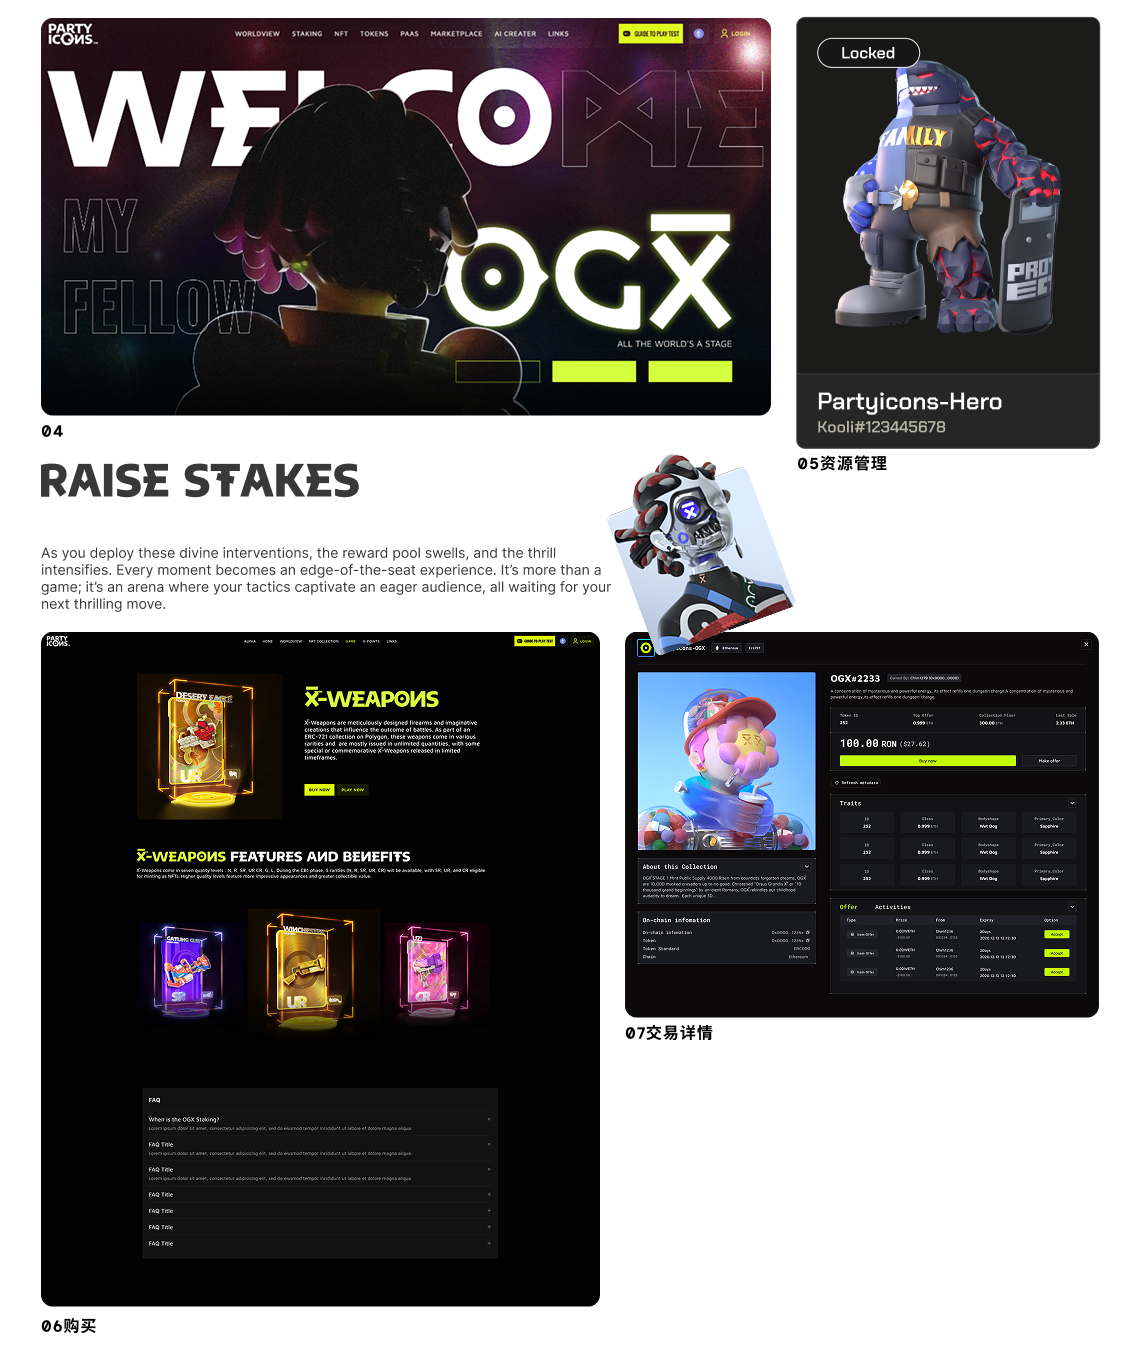
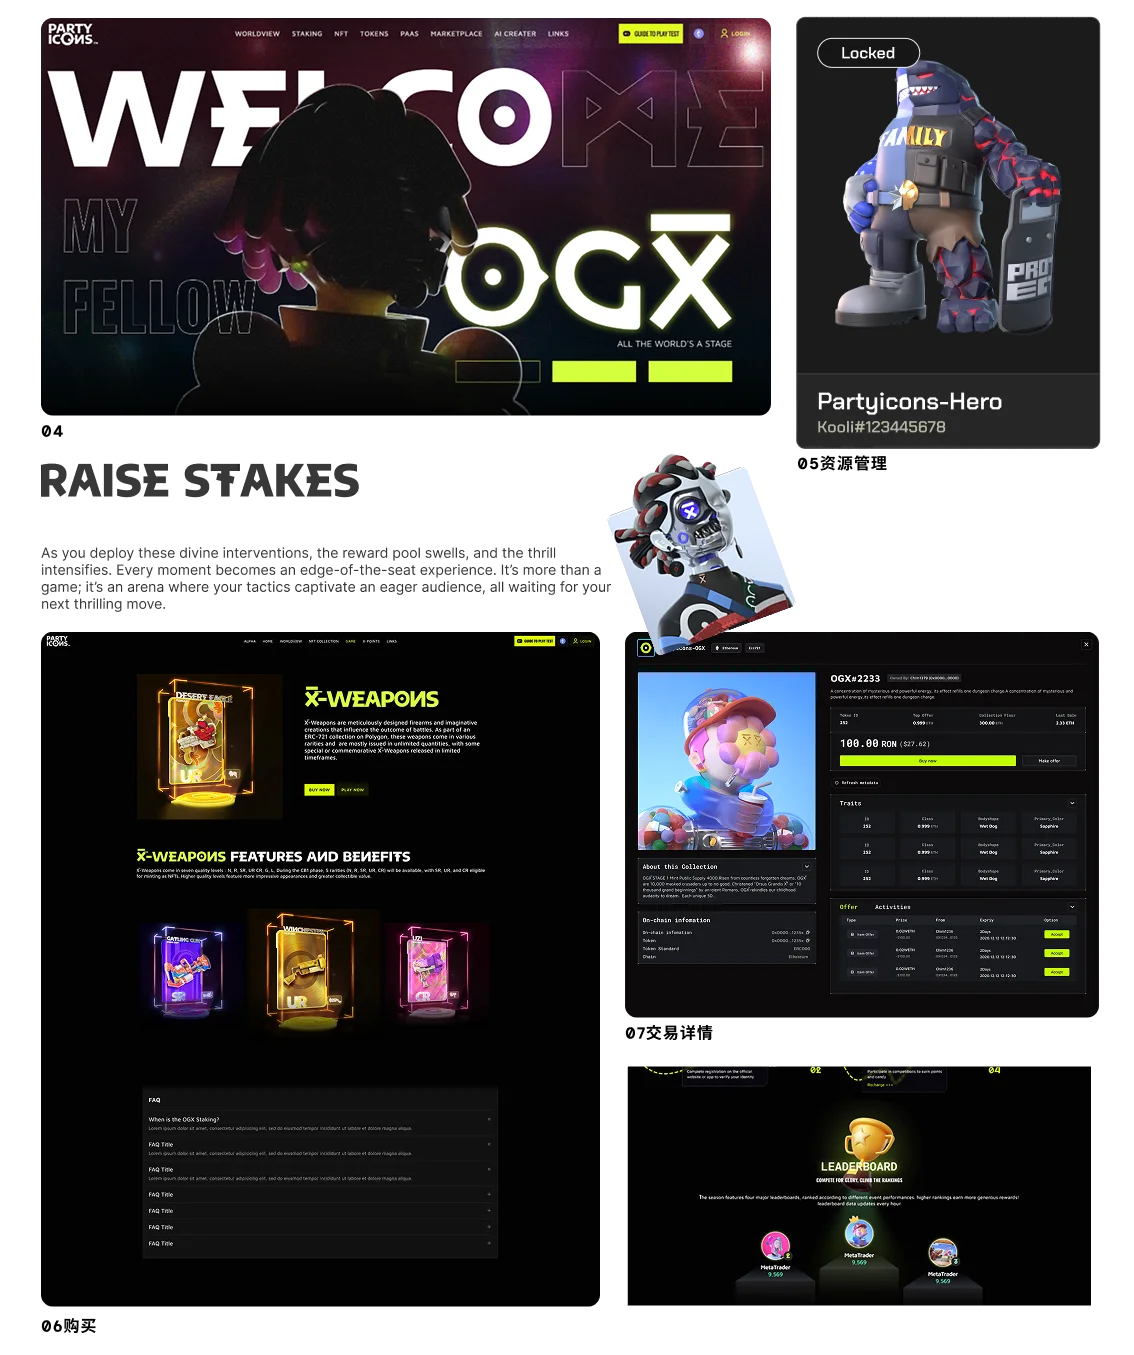
update project detail layouts and images

diff --git a/project-detail-4.html b/project-detail-4.html
@@ -40,19 +40,13 @@
     <article class="project-detail__right">
       <div class="pd-stack pd-stack--4">
         <img class="pd-layer pd-layer--title" src="https://www.figma.com/api/mcp/asset/66fd4267-3368-42e3-ace0-aaecc0b37ec4" alt="1.5right _title 1_ 1" width="1134" height="670" loading="eager">
-        <a class="pd-visit-set" href="https://www.partyicons.com/home/" target="_blank" rel="noreferrer noopener" aria-label="visit set">
-          <span>VISIT SET</span>
-          <svg class="pd-visit-set__arrow" viewBox="0 0 15 14" aria-hidden="true" focusable="false"><path d="M2.3 10.2L10.7 4.3" fill="none" stroke="currentColor" stroke-width="2" stroke-linecap="round" stroke-linejoin="round"/><path d="M5.2 3.2H10.7V8.7" fill="none" stroke="currentColor" stroke-width="2" stroke-linecap="round" stroke-linejoin="round"/></svg>
-        </a>
-        <video class="pd-layer pd-layer--video pd-layer--video-a pd-layer--gif-flow" autoplay loop muted playsinline preload="auto" poster="https://www.figma.com/api/mcp/asset/0d4b5ded-c86f-4dd0-b939-36cb436d8f17" width="1134" height="415" aria-label="1.5gif1 video">
-          <source src="assets/videos/ekko-ai-video.mp4" type="video/mp4">
-        </video>
-        <img class="pd-layer pd-layer--block" src="https://www.figma.com/api/mcp/asset/dbd57ddd-509d-4ee9-b7bb-e219ab5ed44f" alt="1.5right _pic 1 1" width="1134" height="1120" loading="eager">
-        <img class="pd-layer pd-layer--block" src="assets/images/1.5right _pic 1 2.webp" alt="1.5right _pic 1 2" width="1134" height="1355" loading="eager">
+        <img class="pd-layer pd-layer--gif pd-layer--gif-flow" src="assets/gifs/detail4-gif1.gif" alt="" width="1134" height="415" loading="auto">
+        <img class="pd-layer pd-layer--block" src="assets/images/detail4-right-pic1.webp" alt="1.5right _pic 1 1" width="1134" height="1120" loading="eager">
+        <img class="pd-layer pd-layer--block" src="assets/images/detail4-right-pic2.webp" alt="1.5 web3 content 2" width="1134" height="1601" loading="eager">
         <video class="pd-layer pd-layer--video pd-layer--video-b pd-layer--gif-b" autoplay loop muted playsinline preload="auto" poster="https://www.figma.com/api/mcp/asset/9cd6ca21-199b-43a3-bc47-b1db131f1710" width="1058.78" height="595.84" aria-label="1.5gif2 video">
           <source src="assets/videos/video-ogx-2.BqAJ1FMZ.mp4" type="video/mp4">
         </video>
-        <img class="pd-layer pd-layer--block" src="https://www.figma.com/api/mcp/asset/725aef1f-8a21-4b7d-a4c1-6a8a0a80e780" alt="1.5right _pic 3 1" width="1134" height="1601" loading="eager">
+        <img class="pd-layer pd-layer--block" src="assets/images/detail4-right-pic3.webp" alt="1.5 web3 content 3" width="1134" height="1601" loading="eager">
       </div>
     </article>
     <a href="index.html" class="project-detail__back">← Back</a>

diff --git a/css/project-detail-composites.css b/css/project-detail-composites.css
@@ -451,12 +451,17 @@
   transform: none;
 }
 
-.pd-stack--5 .pd-layer--block[src$="detail5-right-pic01.png"],
-.pd-stack--5 .pd-layer--block[src$="detail5-right-pic04.png"] {
-  transform: translateX(30px);
+.pd-stack--5 .pd-layer--block[src$="detail5-right-pic01.webp"],
+.pd-stack--5 .pd-layer--block[src$="detail5-right-pic04.webp"],
+.pd-stack--5 .pd-layer--block[src$="1.6right_pic03 1.webp"],
+.pd-stack--5 .pd-layer--block[src$="1.6right_pic03 2.webp"],
+.pd-stack--5 .pd-layer--block[src$="1.6right_pic04_1.webp"],
+.pd-stack--5 .pd-layer--block[src$="1.6right_pic04_2.webp"],
+.pd-stack--5 .pd-layer--block[src$="1.6right_pic04_3.webp"] {
+  transform: translateX(32px);
 }
 
-.pd-stack--5 .pd-layer--block[src$="detail5-right-pic02.png"] {
+.pd-stack--5 .pd-layer--block[src$="detail5-right-pic02.webp"] {
   transform: translateX(18px);
 }
 

diff --git a/project-detail-5.html b/project-detail-5.html
@@ -63,8 +63,11 @@
         <div class="pd-gif-slot pd-gif-slot--5" aria-hidden="true">
           <img class="pd-layer pd-layer--gif pd-layer--gif-b" src="assets/gifs/detail5-gif-galaxy.gif" alt="" width="397" height="434" loading="lazy">
         </div>
-        <img class="pd-layer pd-layer--block" src="assets/images/1.6right_pic03.webp" alt="潮玩品牌 content 3" width="1134" height="2125" loading="lazy">
-        <img class="pd-layer pd-layer--block" src="assets/images/detail5-right-pic04.webp" alt="潮玩品牌 content 4" width="1134" height="3374" loading="lazy">
+        <img class="pd-layer pd-layer--block" src="assets/images/1.6right_pic03 1.webp" alt="潮玩品牌 content 3" width="1134" loading="lazy">
+        <img class="pd-layer pd-layer--block" src="assets/images/1.6right_pic03 2.webp" alt="潮玩品牌 content 4" width="1134" loading="lazy">
+        <img class="pd-layer pd-layer--block" src="assets/images/1.6right_pic04_1.webp" alt="潮玩品牌 content 5" width="1134" loading="lazy">
+        <img class="pd-layer pd-layer--block" src="assets/images/1.6right_pic04_2.webp" alt="潮玩品牌 content 6" width="1134" loading="lazy">
+        <img class="pd-layer pd-layer--block" src="assets/images/1.6right_pic04_3.webp" alt="潮玩品牌 content 7" width="1134" loading="lazy">
         <img class="pd-layer pd-layer--gif pd-layer--gif-a" src="assets/gifs/detail5-gif-statue.gif" alt="" width="271" height="271" loading="lazy">
       </div>
     </article>

diff --git a/project-detail-2.html b/project-detail-2.html
@@ -48,8 +48,10 @@
         <img class="pd-layer pd-layer--block pd-layer--block--wide" src="assets/images/detail2-right-01.webp" alt="Mini program intro" width="1095" height="622" loading="lazy" style="transform: translateX(6px);">
         <img class="pd-layer pd-layer--block" src="assets/images/1.3right_pic1 1.webp" alt="Mini program screens 1" width="1134" loading="lazy">
         <img class="pd-layer pd-layer--block" src="assets/images/1.3right_pic1 2.webp" alt="Mini program screens 2" width="1134" loading="lazy">
-        <img class="pd-layer pd-layer--block" src="assets/images/1.3right_pic2.webp" alt="Mini program screens 3" width="1134" loading="lazy">
-        <img class="pd-layer pd-layer--block" src="assets/images/1.3right_pic3 1.webp" alt="Mini program screens 4" width="1134" loading="lazy">
+        <img class="pd-layer pd-layer--block" src="assets/images/1.3right_pic2 1.webp" alt="Mini program screens 3" width="1134" loading="lazy">
+        <img class="pd-layer pd-layer--block" src="assets/images/1.3right_pic3 1.webp" alt="" width="1134" loading="lazy">
+        <img class="pd-layer pd-layer--block" src="assets/images/detail2-right-pic2.webp" alt="" width="1134" height="1181" loading="lazy">
+        <img class="pd-layer pd-layer--block" src="assets/images/1.3right_pic2.webp" alt="" width="1134" loading="lazy">
         <img class="pd-layer pd-layer--block" src="assets/images/1.3right_pic3 2.webp" alt="Mini program screens 5" width="1134" loading="lazy">
         <img class="pd-layer pd-layer--bg" src="assets/images/detail2-right-bg.webp" alt="" width="1134" height="1031" loading="lazy">
         <img class="pd-layer pd-layer--gif pd-layer--gif-head" src="assets/gifs/detail2-gif-01.gif" alt="" width="246" height="308" loading="lazy">

diff --git a/project-detail-3.html b/project-detail-3.html
@@ -42,8 +42,9 @@
       <div class="pd-stack pd-stack--3">
         <img class="pd-layer pd-layer--block pd-layer--title" src="assets/images/detail3-right-title.webp" alt="Corporate homepage title" width="1133" height="572" loading="lazy">
         <img class="pd-layer pd-layer--gif pd-layer--gif-a" src="assets/gifs/detail3-gif1.gif" alt="" width="457" height="572" loading="lazy">
-        <img class="pd-layer pd-layer--block" src="assets/images/detail3-right-pic1.webp" alt="Corporate homepage content 1" width="1134" height="1734" loading="lazy">
-        <img class="pd-layer pd-layer--block" src="assets/images/detail3-right-pic2.webp" alt="Corporate homepage content 2" width="1134" height="799" loading="lazy">
+        <img class="pd-layer pd-layer--block" src="assets/images/1.4right_pic1 1.webp" alt="Corporate homepage content 1" width="1134" loading="lazy">
+        <img class="pd-layer pd-layer--block" src="assets/images/1.4right_pic1 2.webp" alt="Corporate homepage content 2" width="1134" loading="lazy">
+        <img class="pd-layer pd-layer--block" src="assets/images/detail3-right-pic2.webp" alt="Corporate homepage content 3" width="1134" loading="lazy">
         <img class="pd-layer pd-layer--gif pd-layer--gif-b" src="assets/gifs/detail3-gif2.gif" alt="" width="365" height="302" loading="lazy">
         <img class="pd-layer pd-layer--gif pd-layer--gif-c" src="assets/gifs/detail3-gif3.gif" alt="" width="192" height="192" loading="lazy">
       </div>